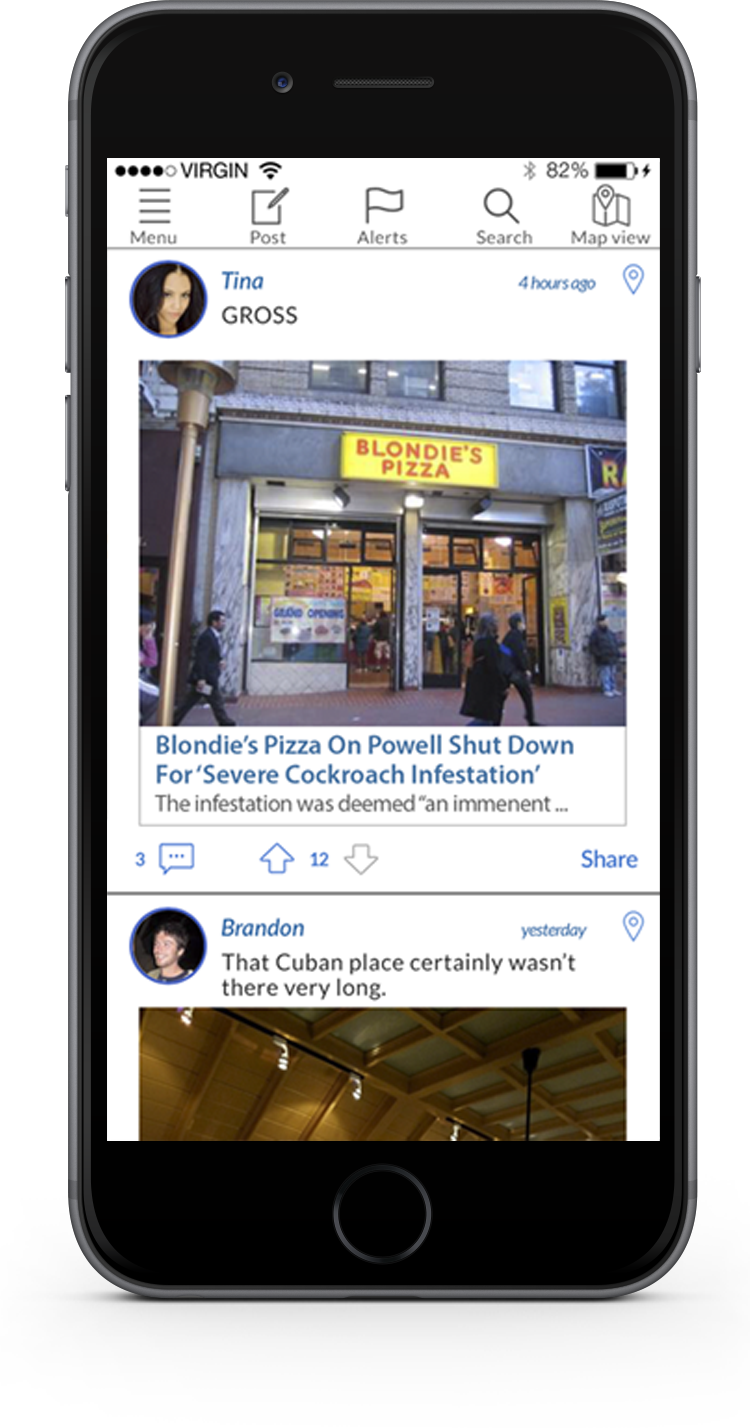
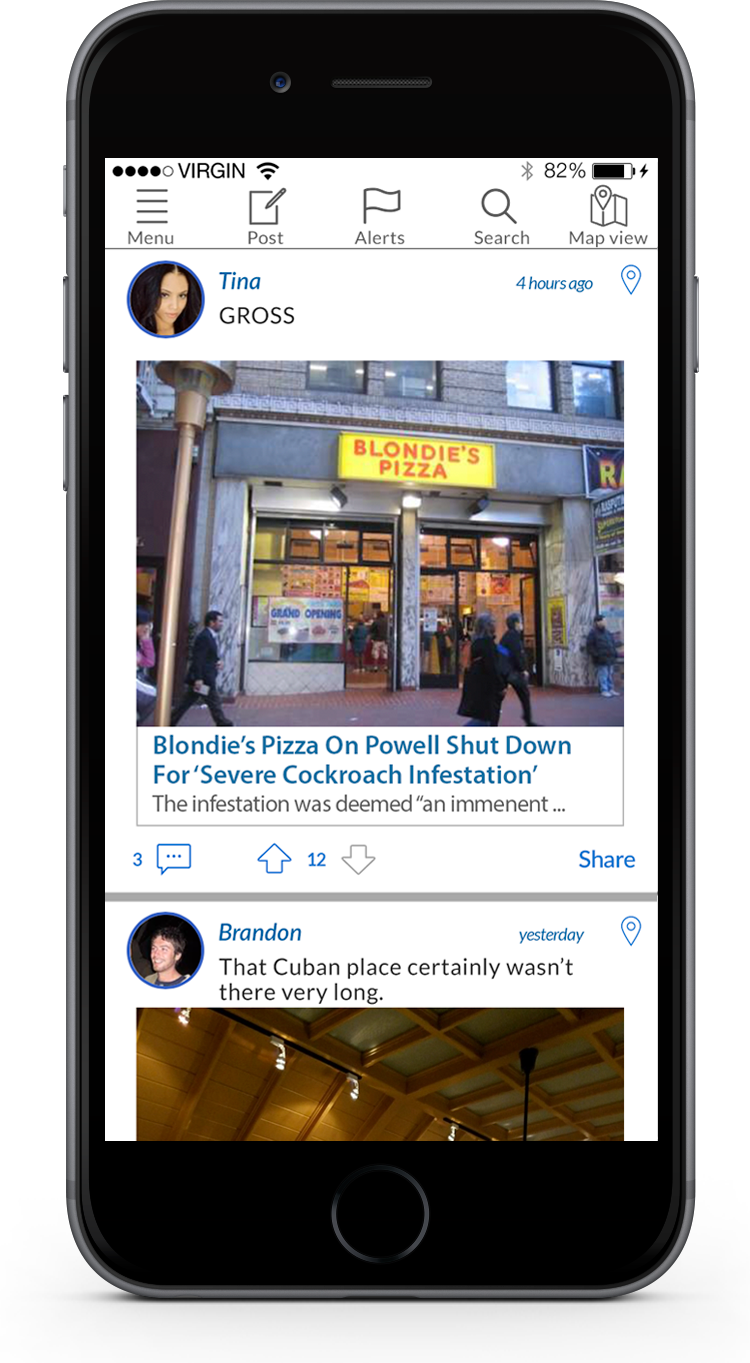
update mobile homepage template

diff --git a/web/www/css/beta-mobile.css b/web/www/css/beta-mobile.css
@@ -155,7 +155,7 @@ input:-ms-input-placeholder {
 .wraper-mobile .references {
 	    background-color: #fff;
     width: 86%;
-    margin-top: -28%;
+    margin-top: -27%;
     position: relative;
     padding: 15px 7% 8%;
 }
@@ -167,7 +167,7 @@ input:-ms-input-placeholder {
 
 .wraper-mobile .references .line{
 	   color: #000;
-    line-height: 5em;
+    line-height: 3em;
     clear: both;
     font-size: 5vw;
 }
@@ -207,7 +207,7 @@ input:-ms-input-placeholder {
 }
 .wrapper-a a {
   display: table-cell;
-  padding: 4vw 2vw;
+  padding: 2vw;
 }
 .wrapper-a a img {
   max-width: 100%;
@@ -216,7 +216,7 @@ input:-ms-input-placeholder {
   margin-top: 4vw;
 }
 .wrapper-map {
-  padding: 4vw 8vw 27vw 8vw;
+  padding: 4vw 8vw 26vw 8vw;
 }
 .wraper-mobile .logo-mobile {
   padding-top: 10px;
@@ -233,4 +233,21 @@ input:-ms-input-placeholder {
 }
 .wraper-mobile .references .line {
   color: #2c2c2c;
+}
+.wraper-mobile .logo-mobile {
+  width: 54%;
+  padding-top: 5px;
+}
+.content {
+  margin-top: 3vw;
+}
+.wraper-mobile img.phone-img {
+  margin: 10vw auto 0;
+}
+.wraper-mobile .references .line img {
+  width: 25%;
+}
+.references .line span {
+  vertical-align: middle;
+  line-height: 4em;
 }
